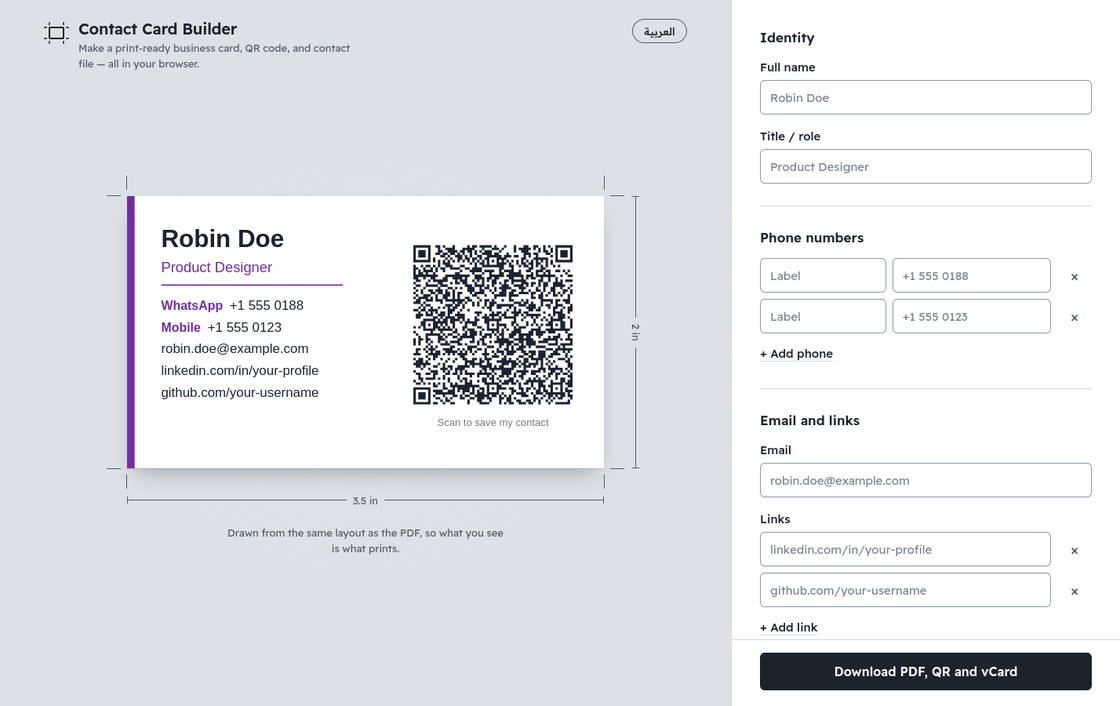
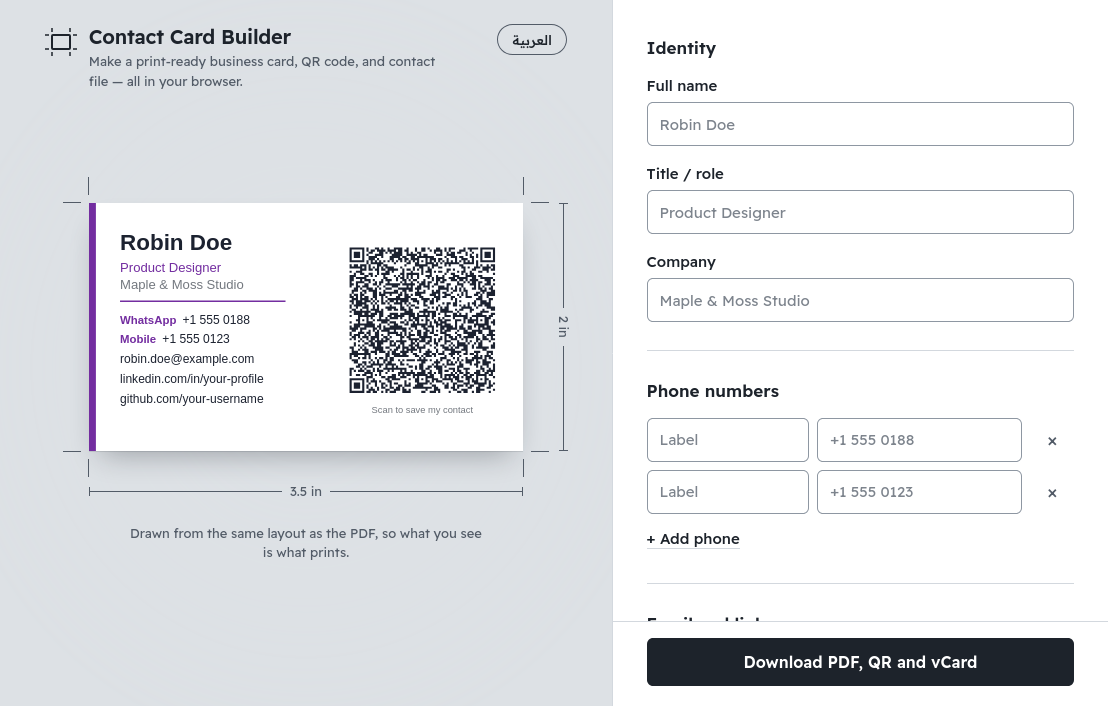
docs: put the project on hold and tidy up stale notes
Mark roadmap steps 6-8 (logo, more languages, offline) as on hold, and
add a "Fixing print issues" section with what to check on a first real
print and which constants to tune. Also refresh the README screenshot
(now shows the Company field), drop an old roadmap comment from app.js,
and fix small gaps in the README and lib/README.

diff --git a/app.js b/app.js
@@ -2,12 +2,11 @@
 //  Contact Card Builder — app logic
 //  ---------------------------------------------------------------------------
 //  Browser-only. Plain JS, classic <script> (no modules, no build step).
-//  Loaded AFTER the vendored libs in lib/ (qrcode-generator, jsPDF).
+//  Loaded AFTER the vendored libs in lib/ (qrcode-generator, jsPDF, Amiri).
 //
-//  Roadmap (one small, testable piece per commit — see CLAUDE.md):
-//    2. form UI            3. vCard data layer  ← (this step)
-//    4. QR (.png)          5. PDF (vector QR)
-//    6. file toggle/downloads                   7. polish
+//  Flow: the form → readForm() → buildVCard() (the source of truth) → the QR
+//  code → layoutCard(), which both buildPdf() and renderPreview() draw from.
+//  The project's rules and history are in CLAUDE.md.
 // =============================================================================
 
 (function () {

diff --git a/CLAUDE.md b/CLAUDE.md
@@ -2,6 +2,12 @@
 
 Guidance for working in this repo. Read this first.
 
+> **Status (2026-11-17): finished and on hold.** The live site is complete. The
+> maintainer doesn't plan new features; the expected reason to come back is a
+> **real test print** that shows something to fix (see
+> [Fixing print issues](#fixing-print-issues)). Don't start the on-hold roadmap
+> items (6–8) unless the maintainer asks.
+
 ## What this is
 
 **Contact Card Builder** — a browser-only web app that turns a simple form
@@ -87,6 +93,7 @@ tests.html     # dev page: open in a browser to run tests.js against app.js
 tests.js       # tiny test runner + tests (uses window.ContactCard)
 favicon.svg    # tab icon (the header logo on a pixel grid); apple-touch-icon.png for phones
 lib/           # vendored third-party libs (qrcode-generator, jsPDF, Amiri + Arimo + Readex Pro fonts) + README
+docs/          # README assets (screenshot.png)
 .claude/skills/ # project skills for Claude Code (frontend-design)
 README.md      # user-facing intro, usage, local run, deploy
 LICENSE        # MIT
@@ -95,38 +102,29 @@ LICENSE        # MIT
 ## Roadmap (one commit per step)
 
 The original build (v1: scaffold → form → vCard → QR → PDF → downloads → polish →
-GitHub Pages) is shipped; see git history. This is the next round of work, agreed
-with the maintainer on 2026-11-16. **Work top to bottom, mark steps ✅ as they ship,
-and check in with the maintainer after step 3 before starting the bigger features.**
+GitHub Pages) shipped first; see git history. A second round was agreed with the
+maintainer on 2026-11-16. Steps 1–5 shipped; **6–8 are on hold** (maintainer,
+2026-11-17).
 
-1. ✅ **Remember the form between visits** — save the form (name, title, phones, email,
-   links, accent, card size, layout, output) to `localStorage` and restore it on load.
-   Same try/catch pattern as the saved language; the app must still work without it.
-   Agreed details: add a **"Clear form"** button that asks for confirmation first,
-   and the saved form **survives a language switch** (switching language never
-   clears what was typed).
-2. ✅ **Company field** — one optional "Company" input. Shown on the card (via
-   `layoutCard()`) and written to the vCard as `ORG`, so it lands in the QR too.
-   Both languages in the i18n table.
-3. ✅ **QR density warning** — warn (don't block) when the vCard makes the QR too dense
-   to scan reliably at the chosen card size; suggest fewer links or unticking
-   "links in QR". Threshold: a printed QR module under 0.4 mm (`QR_MIN_MODULE_MM`),
-   not yet checked with a real scan of a printed card — tune it if the maintainer's
-   phone disagrees. *On-screen check (2026-11-16, PDF in Brave):* the warned US card
-   with 5 links (0.39 mm modules) only scanned from 250% zoom; the unwarned EU one
-   (0.42 mm) scanned from 110%. So the threshold sits about right; a screen is only a
-   rough stand-in for print, so keep it until a printed card says otherwise.
-   - ✅ *Follow-up from the step-3 check-in (2026-11-16):* `layoutCard()` now tightens
-     the contact-line spacing on crowded cards and returns `fits: false` when text
-     still runs off the card or into the QR; the same warning bar says so. Cards that
-     already fit print exactly as before. Download no longer fails silently when the
-     data is too big for any QR. **Step-3 check-in done; step 4 is next** (agreed).
-4. ✅ **Test page** — `tests.html`, opened in the browser, runs `tests.js` (a tiny
-   runner + tests): `buildVCard` / `escapeVCard` / `normalizeUrl` / `containsArabic`,
-   plus `layoutCard` fit, `qrScanCheck` and file names. No toolchain. **Open it and
-   check it's all green before committing a change to `app.js`**; add tests for new
-   logic (steps 5–6) there.
-5. ✅ **Back side, one-card PDF only, off by default** — "Back of the card" select
+1. ✅ **Remember the form between visits** — the whole form is saved to
+   `localStorage` and restored on load (same try/catch pattern as the saved language;
+   the app still works without storage). **"Clear form"** asks for confirmation first,
+   and switching language never clears what was typed.
+2. ✅ **Company field** — optional; shown on the card (via `layoutCard()`) and written
+   to the vCard as `ORG`, so it lands in the QR too.
+3. ✅ **QR density warning** — warns (never blocks) when a printed QR module would be
+   under 0.4 mm (`QR_MIN_MODULE_MM`) at the chosen card size, and suggests fewer links
+   or unticking "links in QR". `layoutCard()` also tightens the contact-line spacing on
+   crowded cards and returns `fits: false` when text still runs off the card or into
+   the QR; the same warning bar says so. Cards that already fit print exactly as before.
+   *On-screen check (2026-11-16, PDF in Brave):* the warned US card with 5 links
+   (0.39 mm modules) only scanned from 250% zoom; the unwarned EU one (0.42 mm) from
+   110%. The threshold seems about right, but no printed card has been scanned yet.
+4. ✅ **Test page** — `tests.html` runs `tests.js` (a tiny runner + tests) in the
+   browser: vCard building and escaping, URLs, Arabic detection, `layoutCard` fit,
+   `qrScanCheck`, the back side and file names. **Open it and check it's all green
+   before committing a change to `app.js`**, and add tests for new logic there.
+5. ✅ **Back side, one-card PDF only, off by default** — "Back of the card"
    (`back: "none" | "qr" | "other"`, saved with the form) adds a second PDF page.
    `layoutCard(data, lang, qr, "back")` lays it out; `hasBack()` gates page 2, the
    preview's Front/Back switch (it flips the card) and the `card-2-sided_…` file name.
@@ -134,27 +132,56 @@ and check in with the maintainer after step 3 before starting the bigger feature
    printer). With the back blank, every PDF is byte-identical to before.
    - *Large QR* (`layoutBack()`): centered QR, bigger modules than the front's, accent
      bar on the far edge (a card turns over like a page).
-   - *Card in the other language* (2026-11-17, maintainer's spec): 3 optional fields
+   - *Card in the other language* (maintainer's spec, 2026-11-17): 3 optional fields
      (name / title / company in the other language; empty → the front's text). Phone
      labels are translated through `PHONE_LABELS` pairs; custom ones print as
-     "Phone"/"هاتف" unless already in the back's script. No other new fields (agreed).
-     The back gets **its own QR** from the back's details (`backCardData()` →
-     `buildVCard()`), so scanning it saves the contact in the back's language; the
-     `.vcf` and QR `.png` downloads stay the front's (maintainer, 2026-11-17). The UI language decides the front's, so the
-     language toggle swaps each filled pair and known labels (`swapCardLanguages()`).
-6. **Logo on the back side** — upload an image, centered on the back. Never on the
-   front (crowds the layout) and never in the vCard (bloats the QR). Depends on 5.
-7. *Later* — more UI languages via the i18n table, plus a short `CONTRIBUTING.md`.
-8. *Later* — work offline on GitHub Pages (manifest + service worker; `file://`
-   keeps working as today).
+     "Phone"/"هاتف" unless already in the back's script. The back gets **its own QR**
+     from the back's details (`backCardData()` → `buildVCard()`), so scanning it saves
+     the contact in the back's language; the `.vcf` and QR `.png` downloads stay the
+     front's. The UI language decides the front's, so the language toggle swaps each
+     filled pair and known labels (`swapCardLanguages()`).
+
+**On hold (2026-11-17) — start only if the maintainer asks:**
+
+6. *Logo on the back side* — upload an image for the back. Never on the front (crowds
+   the layout) and never in the vCard (bloats the QR). Undecided if it comes back: a
+   4th "Back of the card" option (logo alone, centered) or a logo beside the large QR,
+   and a fixed size or a size choice. A logo would also need its own `localStorage`
+   key, so a full storage quota can't stop the form from being saved.
+7. *More UI languages* via the i18n table, plus a short `CONTRIBUTING.md`. A new
+   right-to-left script would also need a vendored card font (as Amiri is for Arabic).
+8. *Work offline on GitHub Pages* (manifest + service worker). Judged low value: the
+   app needs nothing from the network once loaded, and `file://` already works
+   offline. A service worker would also keep serving old versions after a push.
 
 **Decided against (don't re-propose without a new reason):**
 - *Import a `.vcf` into the form* — step 1 covers the need; not worth the complexity.
 - *Bleed / crop marks on the one-card PDF* — keeps the PDF exactly card-sized. Revisit
   only if a print shop asks for bleed, and then as an option.
 
-**Not blocking:** a physical test print of the full sheet. The page size is verified in
-two PDF viewers; the maintainer has no printer and will print when they can.
+## Fixing print issues
+
+Nothing has been printed on paper yet (the maintainer had no printer); page and card
+sizes were checked only in PDF viewers. When a print happens, check:
+
+- **Full sheet** (Letter / A4, 10 cards): printed at "Actual size" (100%)? A card
+  that's the wrong size is almost always the print dialog's "Fit to page", not the
+  code. Do the cut marks line up, and is the column gap wide enough to cut by hand?
+  Knobs in `app.js`: `SHEET_COLUMN_GAP` (17 pt ≈ 6 mm between columns; rows touch on
+  purpose), `SHEET_BLEED` (5.67 pt = 2 mm of accent bar past the card edge),
+  `SHEET_MIN_MARGIN` (28 pt ≈ 10 mm from the paper edge; home printers can't print to
+  the edge), and the mark `offset` / `len` in `drawCutMarks()`.
+- **QR scan**: compare the US card with 5 links (warned as dense, 0.39 mm modules)
+  with the EU card holding the same details (not warned, 0.42 mm). If the warned one
+  scans easily, lower `QR_MIN_MODULE_MM`; if the unwarned one struggles, raise it.
+- **Text near the edges**: contact lines stop at the card's 14 pt (~5 mm) margin `M` in
+  `layoutCard()`, because print shops only promise to cut within ~3 mm.
+
+Any change to the card goes through `layoutCard()` only (see Design work). Before
+committing, open `tests.html` (all green), and make sure cards that weren't meant to
+change still produce the same PDF: build it from the last commit (`git archive HEAD`)
+and from the working tree, then compare the bytes, ignoring the `/CreationDate` and
+`/ID` lines.
 
 ## How to run locally
 

diff --git a/lib/README.md b/lib/README.md
@@ -5,9 +5,6 @@ self-contained: GitHub Pages serves them from this same site, so there's no CDN
 dependency and the app works offline. There is **no `npm install`** and no build
 step — the browser loads these `.js` files directly via `<script>` tags.
 
-> Libraries are downloaded into this folder in the feature step that first needs
-> them (see the roadmap in `CLAUDE.md`), then committed.
-
 ## Libraries used
 
 | File                  | Library / version       | Used for                                       | Source |
@@ -15,7 +12,7 @@ step — the browser loads these `.js` files directly via `<script>` tags.
 | `qrcode.js`           | qrcode-generator 1.4.4  | Building the QR matrix from the vCard text      | https://cdn.jsdelivr.net/npm/qrcode-generator@1.4.4/qrcode.js |
 | `jspdf.umd.min.js`    | jsPDF 2.5.2             | Generating the PDF; QR drawn as vector squares  | https://cdn.jsdelivr.net/npm/jspdf@2.5.2/dist/jspdf.umd.min.js |
 | `amiri-font.js`       | Amiri Regular (SIL OFL 1.1), subset | Embedded Arabic font so the PDF can render Arabic | https://github.com/google/fonts/tree/main/ofl/amiri |
-| `amiri-regular.woff2` | Amiri Regular (SIL OFL 1.1), Arabic subset | Web font so the live **preview** renders Arabic in the same face as the PDF | https://cdn.jsdelivr.net/fontsource/fonts/amiri@latest/arabic-400-normal.woff2 |
+| `amiri-regular.woff2` | Amiri Regular (SIL OFL 1.1), Arabic subset; exact version not recorded (fontsource `@latest`, downloaded 2026-07-01) | Web font so the live **preview** renders Arabic in the same face as the PDF | https://cdn.jsdelivr.net/fontsource/fonts/amiri@latest/arabic-400-normal.woff2 |
 | `readex-pro-latin-wght.woff2`, `readex-pro-arabic-wght.woff2` | Readex Pro (SIL OFL 1.1, see `readex-pro-OFL.txt`) via @fontsource-variable/readex-pro 5.3.0, variable weight 160–700, Latin + Arabic subsets | The app's own **UI font** (not the card), with matching Latin and Arabic designs | https://cdn.jsdelivr.net/npm/@fontsource-variable/readex-pro@5.3.0/files/readex-pro-latin-wght-normal.woff2 (and `-arabic-`) |
 | `arimo-regular.woff2`, `arimo-bold.woff2` | Arimo (Apache-2.0) via @fontsource/arimo 5.2.8, Latin subset | Preview stand-in for the PDF's Helvetica — identical character widths, so preview lines are exactly as long as printed ones | https://cdn.jsdelivr.net/npm/@fontsource/arimo@5.2.8/files/arimo-latin-400-normal.woff2 (and `-700-`) |
 

diff --git a/README.md b/README.md
@@ -100,8 +100,9 @@ index.html   # markup; loads style.css, then the vendored libs, then app.js
 style.css    # all styles
 app.js       # all app logic (vCard, QR, PDF, preview, validation)
 tests.html   # open in a browser to run the tests in tests.js
+tests.js     # a tiny test runner + the tests
 favicon.svg  # browser tab icon (apple-touch-icon.png for phone home screens)
-lib/         # vendored libraries (qrcode-generator, jsPDF, Amiri + Arimo fonts) + notes
+lib/         # vendored libraries (qrcode-generator, jsPDF, Amiri + Arimo + Readex Pro fonts) + notes
 docs/        # README assets (screenshot)
 ```
 
